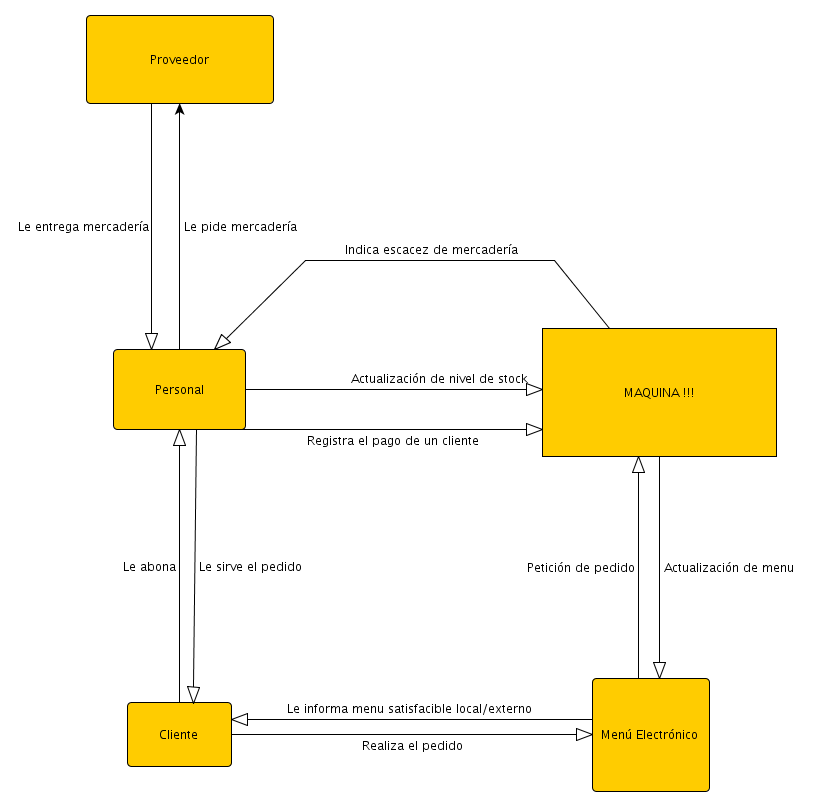
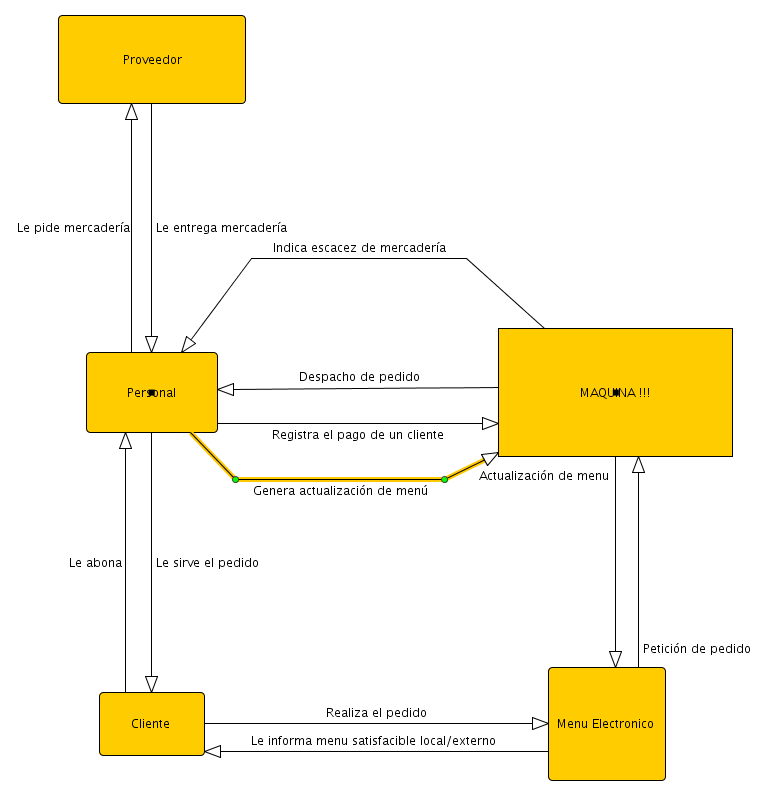
Agregue flecha en agentes automatico.

diff --git a/trunk/Ingeniería - tp1/cambios_sugeridos.tex b/trunk/Ingeniería - tp1/cambios_sugeridos.tex
@@ -148,8 +148,9 @@ El resto de los objetivos tienen nombres lo suficientemente explicativos, por lo
 \caption{Objetivos principales}
 \end{figure}
 
-Entre las pautas se menciona la necesidad de poder actualizar el menú y la restricción de que el menú sea el mismo para todas las sucursales. A continuación nos enfocamos en cómo mantener un menú estandarizado.
-
+Entre las pautas se menciona la necesidad de poder actualizar el menú y la restricción de que el menú sea el mismo para todas las sucursales. A continuación nos enfocamos en el objetivos 1.3.1:
+\subsubsection*{Mantener [Menú estandarizado]}
+para mantener un menú estandarizado simplemente tenemos que aseguranos que sea el mismo en todos los locales, sean cual sean las actualizaciones que se han realizado (de variedades, precios, etc). Para ello únicamente tenemos que asegurar que se mantenga la comunicación entre los locales. \\
 \includegraphics[width=400pt]{imagenes/objetivos_menu_estandarizado2.png}
 
 
@@ -165,8 +166,13 @@ La solución mediante software ofrece una menor tolerancia a fallas, pero en el 
 
 También se da un mejor trato a los clientes, ya que al contar con información actualizada se puede indicar al cliente donde conseguir su variedad preferidad garantizando la no cancelación de su pedido. Esto aporta positivamente a su satisfacción.
 
-\textbf{Mantener[Menú estandarizado]:} para mantener un menú estandarizado simplemente tenemos que aseguranos que sea el mismo en todos los locales, sean cual sean las actualizaciones que se han realizado (de variedades, precios, etc). Para ello únicamente tenemos que asegurar que se mantenga la comunicación entre los locales. \\
+
 %Se debera permitir aceptar pedidos de una sucursal remota y a la vez poder realizar los pedidos que no sean satisfechos pro el local en cuestion a otra sucursal de la cadena que si disponga del stock necesario para cubrir el pedido del cliente.
+
+Para terminar de asegurar la concreción del objetivo 1.3 ahora nos remitimos al objetivo 1.3.2:
+\subsubsection*{Lograr [Se puede ingresar un menú nuevo desde una sucursal]}
+
+\includegraphics[width=400pt]{imagenes/objetivos_menu_ingreso.png}
 
 \newpage
 \section*{Escenarios}
